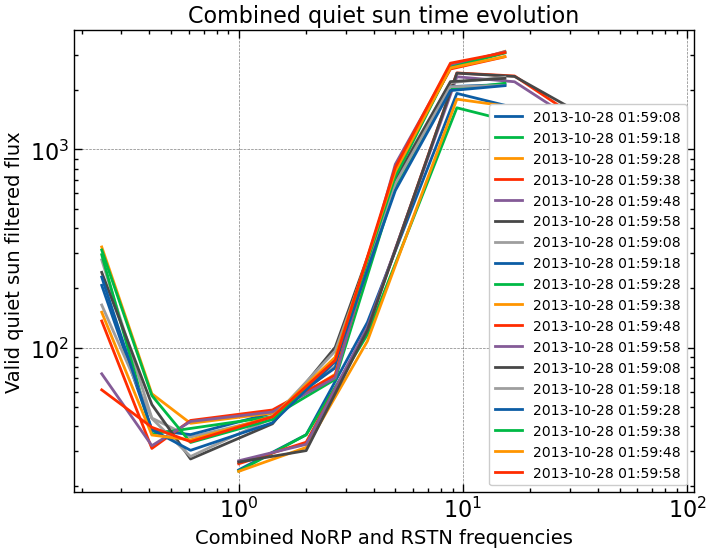
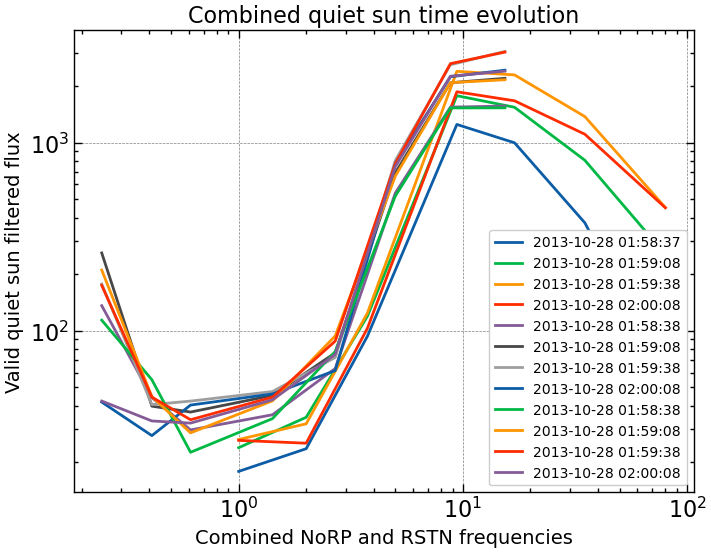
Combined plotter range fix

diff --git a/data_plotter.py b/data_plotter.py
@@ -39,7 +39,7 @@ def norp_log_plotter(arg):
     peak = (
         np.where(data_norp_tim_valid == data_norp_peak_time)[0][0],  # peak
         600,  # peak_gap
-        200,  # gap
+        300,  # gap
     )
     # Plot data range limiter at +- 30s --> peak_gap >= 300
     # Structure - (peak_start, peak_end)
@@ -181,10 +181,10 @@ def log_plotter(arg):
         np.where(data_norp_tim_valid == data_norp_peak_time)[0][0],  # peak
         np.where(data_apl_tim == data_norp_peak_time)[0][0],  # peak_apl
         np.where(data_phf_tim == data_norp_peak_time)[0][0],  # peak_phf
-        300,  # peak_norp_gap
-        30,  # peak_rstn_gap
-        100,  # gap_norp
-        10,  # gap_rstn
+        600,  # peak_norp_gap
+        60,  # peak_rstn_gap
+        300,  # gap_norp
+        30,  # gap_rstn
     )
     # Plot data range limiter at +- 30s
     peak_idx = (
